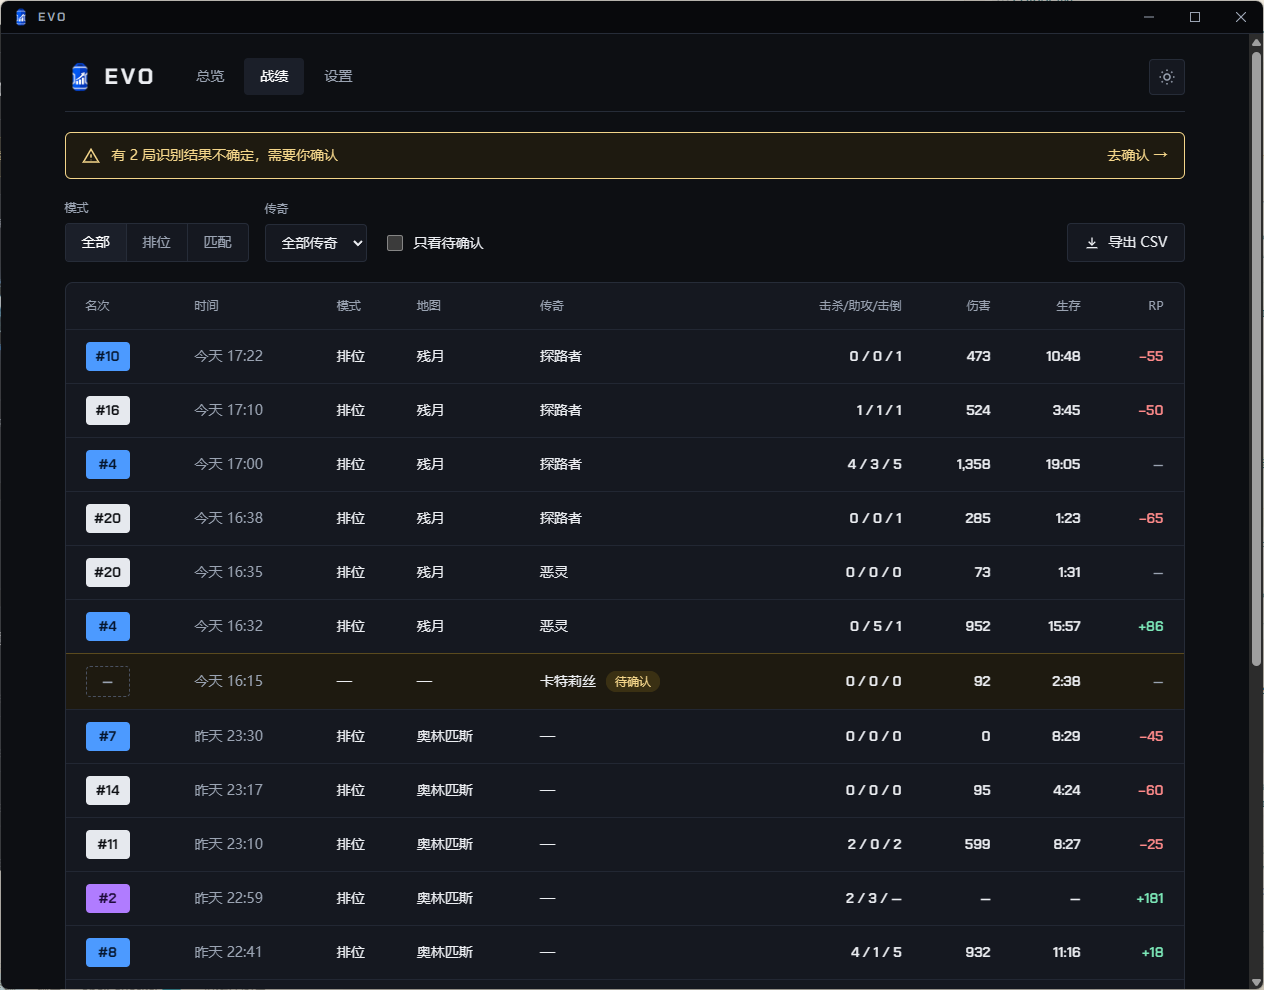
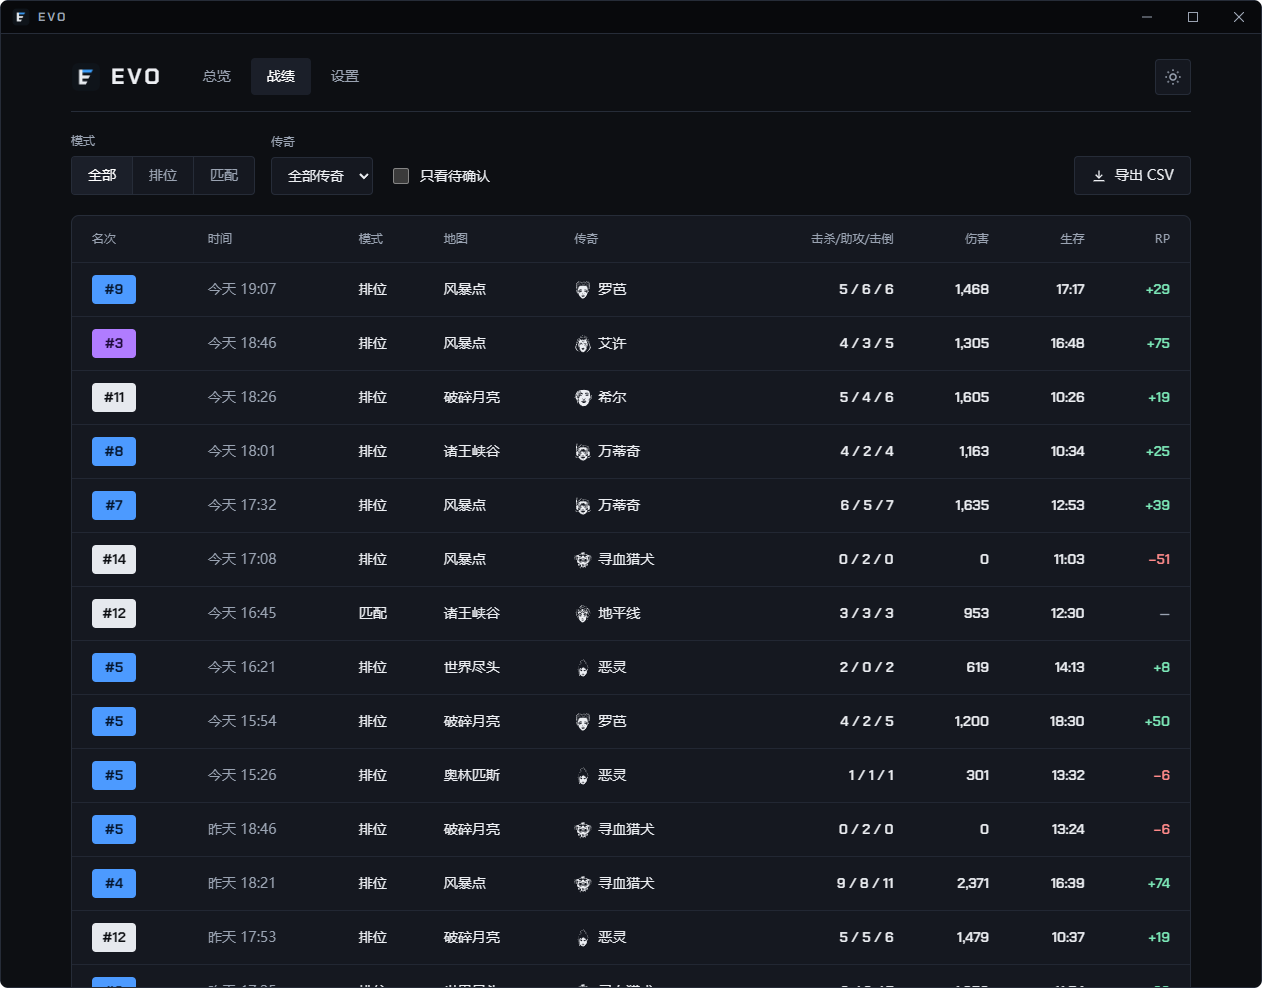
README 和官网换上新图标的截图：新工具 tools/window_shots.py 用演示数据截总览、战绩、设置三页（README 的 PNG、官网带内容摘要的 WebP，自动改官网首页的图片地址）；README 设置页说明改成开机自启、提示音、识别，加回"截图里是演示数据"，去掉过时的版本号；官网图标改名避开图片缓存；删掉待办"托盘专用的简化图标"

diff --git a/tools/window_shots.py b/tools/window_shots.py
@@ -1,0 +1,108 @@
+"""README 和官网的窗口截图（开发工具）：python tools/window_shots.py
+
+用演示数据截 Evo 窗口的总览、战绩、设置三页（深色主题、带 Evo 标题栏，1262×988，四角按 Windows 11 窗口的圆角透明），
+不碰正式数据：
+- docs/images/<页>.png：README 用
+- site/img/<页>-<内容摘要>.webp：官网首页用（site/ 在本机才有）。官网图片缓存一天，文件名带内容摘要，换了图就换名字，
+  打开官网马上看到新图；site/index.html 里的 <img> 跟着改，旧图删掉。改完要上传官网才生效（见 docs/底座.md）
+
+做法和宣传图一样（tools/feature_cards.py）：临时文件夹里生成演示战绩（游戏名是编的 EvoPlayer）、打开面板、
+Edge 无界面模式截图；关掉入场动画（走势图从左往右展开等），截到的是播完时的样子。
+"""
+
+import hashlib
+import os
+import re
+import shutil
+import sys
+import tempfile
+from pathlib import Path
+
+from PIL import Image, ImageDraw
+
+import code_path  # noqa: F401  先把 code/ 加进搜索路径，下面才能 import 程序代码（见 code_path.py）
+
+ROOT = code_path.ROOT
+W, H = 1262, 988  # 和官网首页 <img> 上写的宽高一样，换图时页面不会跳
+RADIUS = 8  # Windows 11 窗口的圆角
+PAGES = {"overview": "/", "matches": "/matches", "settings": "/settings"}
+README_DIR = ROOT / "docs" / "images"
+SITE_IMG = ROOT / "site" / "img"
+INDEX = ROOT / "site" / "index.html"
+NO_ANIMATION = "<style>*,*::before,*::after{animation:none!important;transition:none!important}</style>"
+
+
+def corner_mask():
+    """四角圆角外透明（先画 4 倍大再缩小，边缘更平滑）。"""
+    s = 4
+    mask = Image.new("L", (W * s, H * s), 0)
+    ImageDraw.Draw(mask).rounded_rectangle((0, 0, W * s - 1, H * s - 1), radius=RADIUS * s, fill=255)
+    return mask.resize((W, H), Image.LANCZOS)
+
+
+def update_site(files):
+    """site/index.html 里三张截图的 <img> 指向新文件，删掉不再用的旧截图。"""
+    html = INDEX.read_bytes().decode("utf-8")  # 按字节读写，换行符保持原样
+    for name, file in files.items():
+        html, n = re.subn(rf'src="img/{name}(-[^"/]*)?\.webp"', f'src="img/{file}"', html)
+        if n != 1:
+            sys.exit(f"site/index.html 里 img/{name}….webp 应该有 1 处，找到 {n} 处：网页的写法可能变了，请手动改")
+    INDEX.write_bytes(html.encode("utf-8"))
+    used = "".join(p.read_bytes().decode("utf-8") for p in (ROOT / "site").glob("*.html"))
+    for old in SITE_IMG.glob("*.webp"):
+        if re.fullmatch(rf"({'|'.join(PAGES)})(-.*)?\.webp", old.name) and f"img/{old.name}" not in used:
+            old.unlink()
+            print(f"删掉旧图 site/img/{old.name}")
+
+
+def main():
+    tmp = Path(tempfile.mkdtemp(prefix="evo-shots-"))
+    data = tmp / "data"
+    data.mkdir()
+    os.environ["EVO_DATA_DIR"] = str(data)  # 在 import 程序代码之前设好：演示数据、设置都在临时文件夹里
+    import feature_cards as fc
+    os.environ["EVO_VIDEOCONFIG"] = str(tmp / "videoconfig.txt")
+    (tmp / "videoconfig.txt").write_text(fc.VIDEOCONFIG, encoding="utf-8")
+    (data / "settings.json").write_text('{"update_auto": true}', encoding="utf-8")  # 免得截到"要不要自动检查"的提问
+
+    import panel_app
+
+    @panel_app.app.after_request
+    def no_animation(resp):
+        if resp.mimetype == "text/html":
+            resp.set_data(resp.get_data(as_text=True).replace("</head>", NO_ANIMATION + "</head>", 1))
+        return resp
+
+    db, _ = fc.make_demo_data()
+    base, server = fc.serve_panel(db)
+    mask = corner_mask()
+    site_files = {}
+    try:
+        for name, path in PAGES.items():
+            raw = tmp / f"{name}.png"
+            fc.edge(tmp, [f"--screenshot={raw}", base + path], size=(W, H), scale=1)
+            img = Image.open(raw).convert("RGBA")
+            if img.size != (W, H):
+                sys.exit(f"{name} 截出来是 {img.size}，应该是 {(W, H)}")
+            img.putalpha(mask)
+            img.save(README_DIR / f"{name}.png", optimize=True)
+            print(f"已写 docs/images/{name}.png")
+            if SITE_IMG.is_dir():
+                webp = tmp / f"{name}.webp"
+                img.save(webp, quality=85, method=6)
+                file = f"{name}-{hashlib.sha256(webp.read_bytes()).hexdigest()[:8]}.webp"
+                shutil.copyfile(webp, SITE_IMG / file)
+                site_files[name] = file
+                print(f"已写 site/img/{file}（{webp.stat().st_size // 1024} KB）")
+    finally:
+        server.shutdown()
+        shutil.rmtree(tmp, ignore_errors=True)
+    if site_files:
+        update_site(site_files)
+        print("site/index.html 已改好；上传官网才生效")
+    else:
+        print("没有 site/ 文件夹，跳过官网的截图")
+
+
+if __name__ == "__main__":
+    main()

diff --git a/tools/make_icon.py b/tools/make_icon.py
@@ -5,7 +5,8 @@
 
 - assets/icon/evo.svg：矢量原稿
 - assets/icon/evo.png：1024 像素，程序里的图标都从它来（托盘、exe、窗口、面板、分享图片，见 code/icons.py）
-- 官网（site/ 在本机才有）：favicon.ico（16、32、48）、img/favicon-32.png、img/evo.png（首页大图，256）
+- 官网（site/ 在本机才有）：favicon.ico（16、32、48）、img/favicon-e-32.png、img/evo-e.png（页头和首页大图，256）。
+  官网图片缓存一天，换了图标要换文件名（网页里 4 个 .html 跟着改），打开官网才马上看到新的
 
 改了下面的形状或颜色，再运行一次就行；之后 python tools/build.py 重新打包，exe 的图标才会变。
 """
@@ -71,8 +72,8 @@ def main():
     if not SITE.is_dir():
         print("没有 site/ 文件夹，跳过官网的图标")
         return
-    save(SITE / "img" / "evo.png", png(render(256)))
-    save(SITE / "img" / "favicon-32.png", png(render(32)))
+    save(SITE / "img" / "evo-e.png", png(render(256)))
+    save(SITE / "img" / "favicon-e-32.png", png(render(32)))
     sizes = (16, 32, 48)
     buf = io.BytesIO()
     render(48).save(buf, "ICO", sizes=[(s, s) for s in sizes], append_images=[render(s) for s in sizes[:-1]])

diff --git a/claude/progress.md b/claude/progress.md
@@ -131,4 +131,6 @@
 
 - **换图标**（用户给的设计稿：深色圆角方块上由横杠组成的 "E"，竖笔 + 三条右端斜切的横杠，最上面一条蓝色；替换原来的蓝色胶囊 + 上升柱状图）：新工具 `tools/make_icon.py`，形状和颜色只写一遍（设计稿是按 1024 网格画的：圆角 224，竖笔宽 128，横杠高 112、间隔 104，斜切往下 112 往左缩 64；颜色 `#0F141A` / `#E8ECF1` / `#3B9EFF`），生成矢量原稿 `assets/icon/evo.svg`、`assets/icon/evo.png`（1024 像素），和官网的 `favicon.ico`、`img/favicon-32.png`、`img/evo.png`（site/ 不进 git；旧的三个文件备份在本次会话的临时文件夹）。托盘（三种状态）、exe、窗口标题栏、面板左上角、浏览器标签页、分享图片、宣传图本来就都读 `evo.png`，程序代码不用改。`assets/icon/README.md`、`docs/底座.md` 跟着改
   - 验证：画成 800 像素和设计稿逐像素比，平均差 1/255，各条边的位置差不到 0.15 像素；托盘三种状态在 16、20、24、32、48 像素、深浅两种任务栏底色上都认得出 "E"；`build.make_icon()` 生成的 `build/icon/evo.ico` 7 个尺寸都对；Edge 无界面截图看了面板（深色、浅色）、分享图片、官网首页（页头和大图）
-  - 还没生效的地方：exe 和快捷方式的图标要重新打包安装才变（Windows 可能缓存旧图标，重启资源管理器后才更新）；官网要上传才变；`docs/images/`、官网 `img/*.webp` 里的面板截图还是旧图标
+  - 还没生效的地方：exe 和快捷方式的图标要重新打包安装才变（Windows 可能缓存旧图标，重启资源管理器后才更新）
+- **README 和官网换上新图标、新截图并上线**（2026-10-22 用户决定：官网现在上传；面板截图用演示数据重截，官网和 GitHub 都换；设置页的数据文件夹不再作为宣传重点；删掉待办"托盘专用的简化图标"，新图标 16 像素认得出）：新工具 `tools/window_shots.py`（和宣传图同一套：临时文件夹里的演示战绩、Edge 无界面截图；关掉入场动画，第一次截时走势图还没展开；1262×988、四角 8 像素圆角透明），写 `docs/images/{overview,matches,settings}.png` 和官网的 `site/img/<页>-<内容摘要>.webp`，改好 `site/index.html` 的 `<img>`、删掉旧图。设置页截最上面（跳到"数据与隐私"截时页头和右栏会滚走、右半边空白）。README：设置那张的说明改成"开机自启、提示音、识别，都在这里调"、替代文字跟着改，加回"截图里是演示数据。"，"现在是 0.2.0 预览版"去掉版本号。官网：设置页截图的替代文字跟着改；图标改名 `img/evo-e.png`、`img/favicon-e-32.png`（4 个页面的引用跟着改，避开图片缓存一天；`make_icon.py` 跟着改），`docs/底座.md` 官网截图那条改成用新工具
+  - 验证：本机 Edge 截图看了官网首页（页头图标、首页大图标、三张截图）；`wrangler pages deploy site --project-name evotracker --branch main` 后，线上首页、更新日志页、隐私页、favicon.ico 和 5 个新图片都和本机的 SHA-256 一致。旧的 5 个图片地址暂时还由 Cloudflare 的缓存返回旧图（`cf-cache-status: HIT`，最多一天后失效；网页已经不引用）。推到 GitHub（只推 main）

diff --git a/docs/底座.md b/docs/底座.md
@@ -54,7 +54,7 @@
   4. 在 `claude/progress.md` 的"版本"里记一笔，`git push origin main`（只推 main）
 - **小版本的发布**（2026-10-19 用户决定）：先把 `release/更新内容.txt` 里这一版的原文贴给用户确认（直接贴在消息里，别只放在提问框上面，会被挡住）；用户点头以后不用单独跑 `--dry-run`，直接 `python tools/publish.py`（照样跑测试和打包），它停在"确认原文"时核对打出来的原文和用户确认的一样，加 `--changelog-ok 核对码` 再跑一次，接着 `--live --yes`，一口气传完
 - 官网和下载都在 Cloudflare：网页是 Pages 项目 `evotracker`（evotracker.cn，"直接上传"类型，不能改成连接 GitHub；`site/` 只在本机、不进 git），下载文件在 R2 存储桶 `evotracker`（dl.evotracker.cn）。单独上传网页：`wrangler pages deploy site --project-name evotracker --branch main`。Wrangler 是 Cloudflare 的命令行工具，要 Node.js（只装在开发电脑上，不进 Evo 安装包；Evo 和面板本身不用 Node.js）
-- **官网的截图不会跟着 README 换**：README 用 `docs/images/*.png`，官网用 `site/img/*.webp`。从 PNG 转：去掉最外一圈 1 像素的桌面壁纸、圆角外透明（沿用旧图的透明形状）、1262×988；换文件名，避开官网图片缓存一天，再改 `site/index.html` 的 `<img>`。`publish.py` 不管截图
+- **README 和官网的窗口截图**：`python tools/window_shots.py`（2026-10-22 起）用演示数据截总览、战绩、设置三页（深色、带 Evo 标题栏、1262×988、四角圆角透明），写 README 用的 `docs/images/*.png` 和官网用的 `site/img/<页>-<内容摘要>.webp`，并改好 `site/index.html` 的 `<img>`、删掉旧图（文件名带摘要，避开官网图片缓存一天）；之后提交、上传官网。`publish.py` 不管截图，界面变了要自己运行
 - 官网更新日志页 `site/changelog.html` 由 `publish.py` 自动加新的一版（见上面第 2 步）。它靠时间线列表开头那一行和唯一一个"最新"那一版来定位，改这一页的写法时要跟着改 `publish.py`；自动加的版本没有开头那句加粗的概要（0.1.0–0.3.1 那几句是手写的）
 - 改 `PRIVACY.md` 时 `site/privacy.html`（中文、英文两部分）要一起改
 - 没有数字签名的 exe 可能被杀毒软件误报、被 SmartScreen 拦截（代码签名的打算见 todo.md）

diff --git a/README.md b/README.md
@@ -6,7 +6,7 @@
 
 ![Evo 窗口的总览页：当前段位、RP 走势图、场均名次和伤害等统计、最近对局、传奇表现](docs/images/overview.png)
 
-> 现在是 **0.2.0 预览版**：只支持简体中文游戏界面，只在排位赛里测过。官网和下载：**[evotracker.cn](https://evotracker.cn)**
+> 现在是 **预览版**：只支持简体中文游戏界面，只在排位赛里测过。官网和下载：**[evotracker.cn](https://evotracker.cn)**
 
 ## 功能
 
@@ -17,9 +17,11 @@
 - **轻量**：平时安静地待在托盘里；发现游戏在运行才开始记录，游戏一关，识别程序就退出，内存还给系统
 - **多账号**：按游戏里的名字区分账号，大小号的战绩分开统计
 
-| 战绩：每一局的明细，可以筛选、修正、导出 | 设置：数据存在哪里、占了多少空间，一目了然 |
+| 战绩：每一局的明细，可以筛选、修正、导出 | 设置：开机自启、提示音、识别，都在这里调 |
 |---|---|
-| ![战绩页：每局的名次、时间、模式、地图、传奇、击杀/助攻/击倒、伤害、生存时间和 RP](docs/images/matches.png) | ![设置页：主题、识别信息、账号、数据文件夹和截图文件夹、关于 Evo](docs/images/settings.png) |
+| ![战绩页：每局的名次、时间、模式、地图、传奇、击杀/助攻/击倒、伤害、生存时间和 RP](docs/images/matches.png) | ![设置页：主题、开机自动启动、提示音、识别设置、关于 Evo](docs/images/settings.png) |
+
+截图里是演示数据。
 
 ## 只看屏幕，不碰游戏
 

diff --git a/claude/todo.md b/claude/todo.md
@@ -82,7 +82,6 @@
 - [ ] **名字**：发布前再确认一次 PyPI 上 `evo-tracker` 没被占用
 - [ ] **EA 素材的版权**：传奇头像和画面参照图（`config/templates/`）是从游戏画面截的 EA 美术素材，开发阶段先不考虑；公开发布前再看（代码签名那条也和它有关）。同一类的还有：总览页的段位徽章（`assets/ranks/`），面板传奇小头像里 19 个 wiki 上标着"版权属于 EA"的（2026-10-20 用户决定先照常用，许可逐个写在 `assets/legends/LICENSE.txt`；另 9 个是公有领域或 CC 许可）
 - [ ] **测试截图**：现在不提交（2026-10-17 决定）。公开发布前考虑提交"只留识别区域、其余涂黑"的版本，别人下载代码后也能跑测试
-- [ ] （可选）**托盘专用的简化图标**：现在的图标在 16 像素下内部细节会糊
 
 ## 六、需要你来做或决定的
 
